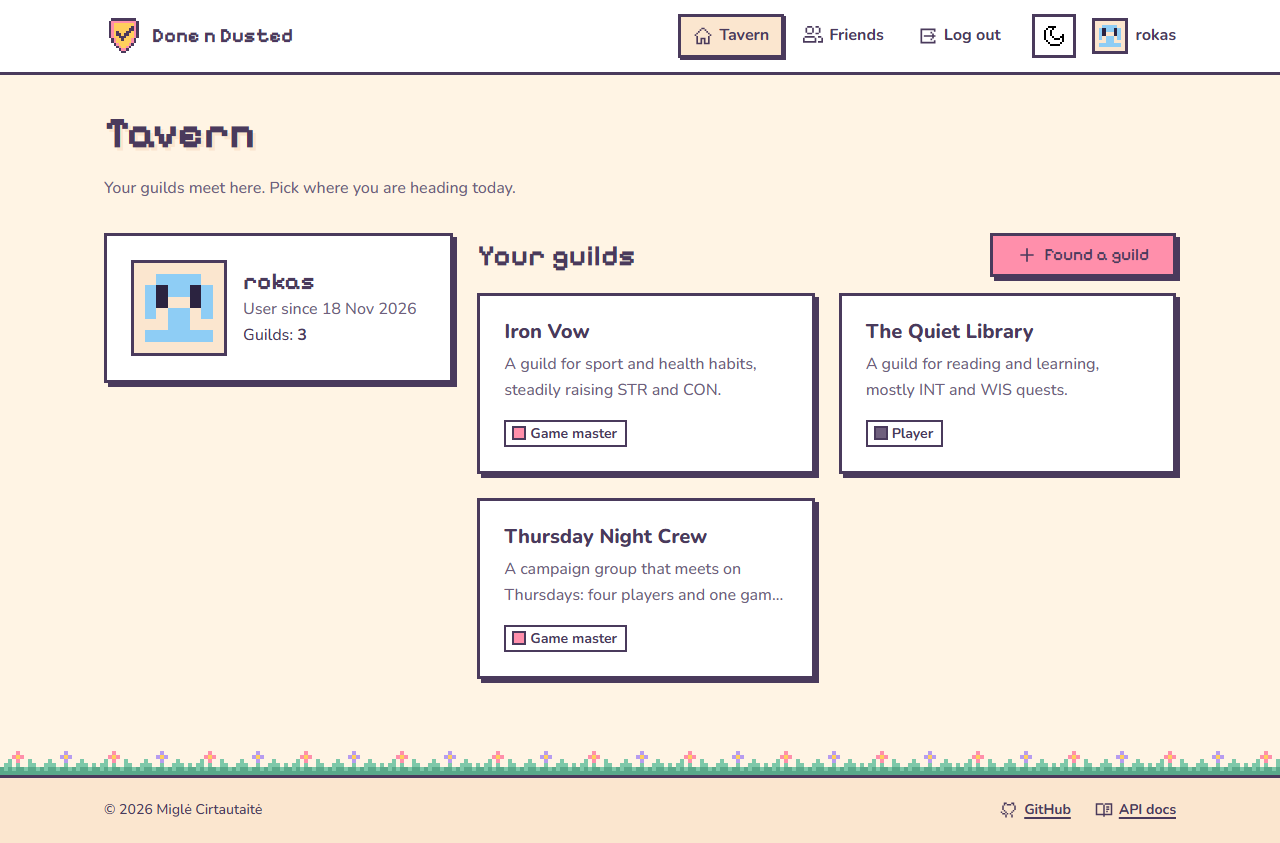
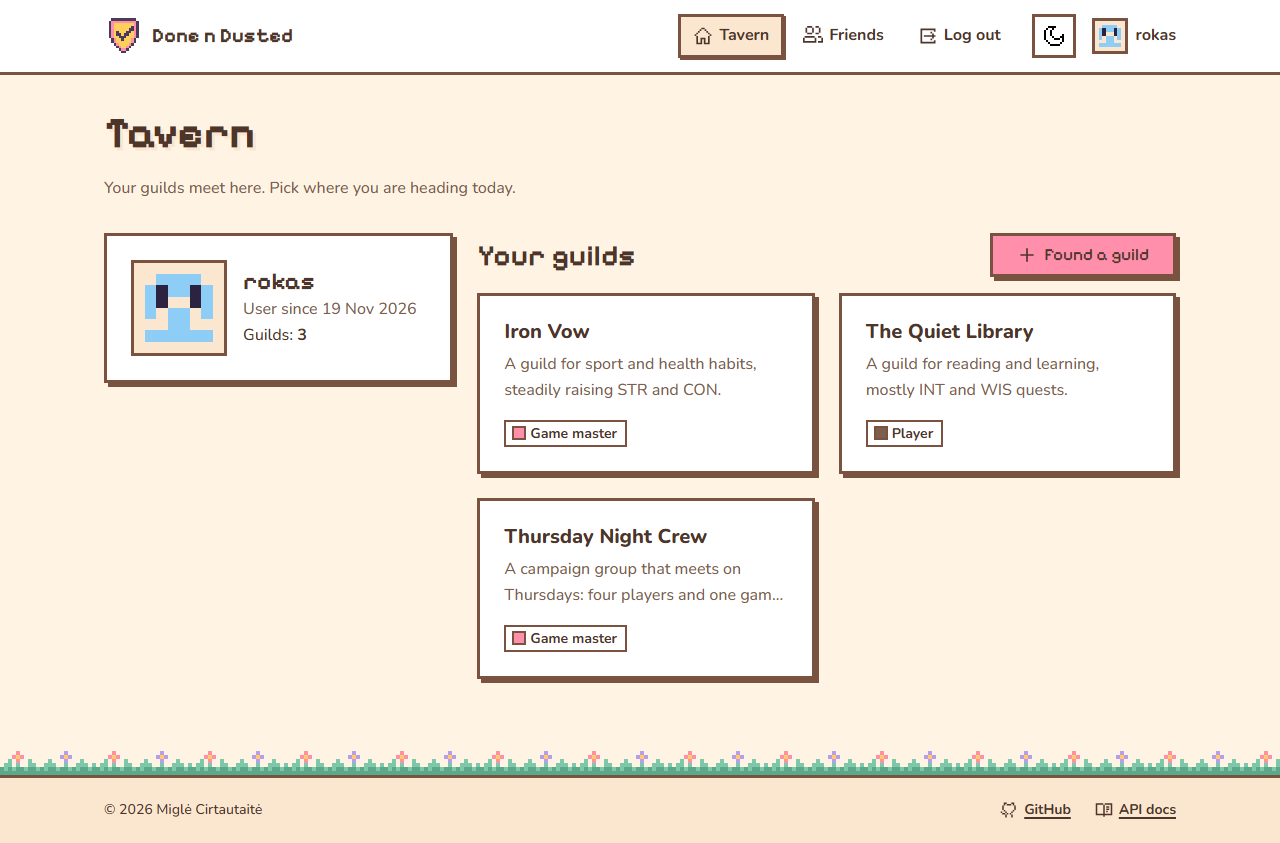
Warm up the light theme and calm the dark links

diff --git a/frontend/src/styles/tokens.css b/frontend/src/styles/tokens.css
@@ -11,21 +11,22 @@
   --bg: #fff4e4;
   --surface: #ffffff;
   --surface-2: #fbe6cf;
-  --ink: #4a3a5c; /* outlines and hard shadows, never pure black */
-  --text: #4a3a5c;
-  --text-muted: #6f5f7d;
+  --ink: #7a5240; /* outlines and hard shadows: warm cocoa, never black */
+  --text: #4e352a;
+  --text-muted: #7d5f50;
   --primary: #ff8fab; /* the one main call to action per screen */
-  --on-primary: #4a3a5c; /* text and icons on any pastel fill */
+  --on-primary: #4e352a; /* text and icons on any pastel fill */
   --link: #c2406a;
-  --link-2: #4a3a5c; /* links on --surface-2, where pink is too light */
+  --link-2: #4e352a; /* links on --surface-2, where pink is too light */
   --xp: #ffcf5c; /* experience and level only */
   --focus: #c2406a;
   --success: #7ec8a9;
+  --info: #8ecdf5; /* calm accent for informational tiles */
   --danger: #e05a6a;
   --danger-ink: #b02a42; /* error text: the pastel red is too light to read */
   --danger-btn: #b02a42;
   --on-danger: #ffffff;
-  --control: #4a3a5c; /* form control borders: 3:1 against the card in both themes */
+  --control: #7a5240; /* form control borders: 3:1 against the card in both themes */
   --overlay: rgb(255 244 228 / 90%);
 
   --stat-str: #ff8a8a;
@@ -77,11 +78,12 @@
   --text-muted: #c9b8e0;
   --primary: #ffb3c7;
   --on-primary: #2b2340;
-  --link: #ffb3c7;
-  --link-2: #ffb3c7;
+  --link: #bfc3f5;
+  --link-2: #bfc3f5;
   --xp: #ffd97a;
   --focus: #ffd97a;
   --success: #9ee6c4;
+  --info: #9cd3ff;
   --danger: #ff9aa8;
   --danger-ink: #ffb0bb;
   --danger-btn: #ff9aa8;
@@ -139,11 +141,12 @@
     --text-muted: #c9b8e0;
     --primary: #ffb3c7;
     --on-primary: #2b2340;
-    --link: #ffb3c7;
-    --link-2: #ffb3c7;
+    --link: #bfc3f5;
+    --link-2: #bfc3f5;
     --xp: #ffd97a;
     --focus: #ffd97a;
     --success: #9ee6c4;
+    --info: #9cd3ff;
     --danger: #ff9aa8;
     --danger-ink: #ffb0bb;
     --danger-btn: #ff9aa8;

diff --git a/frontend/src/pages/LandingPage.tsx b/frontend/src/pages/LandingPage.tsx
@@ -43,7 +43,7 @@ export function LandingPage() {
         <ol className="steps grid grid--3">
           <li className="window">
             <h3 className="step__title">
-              <span className="tile tile--lg" style={tile('var(--surface-2)')}>
+              <span className="tile tile--lg" style={tile('var(--info)')}>
                 <NotePlus size={28} aria-hidden="true" />
               </span>
               1. Log what you did

diff --git a/docs/LD3.md b/docs/LD3.md
@@ -103,8 +103,8 @@ užfiksuoja `data-theme` tą akimirką, kai sukuriamas `<body>`.
 
 | Žetonas | Reikšmė |
 | --- | --- |
-| Paviršiai | Diena: fonas `#fff4e4`, kortelės `#ffffff`, `surface-2 #fbe6cf`. Naktis: `#2b2340`, `#3d3159`, `#4a3c6b`. Tekstas ir rašalas `#4a3a5c` (diena) / `#fdf3e7` (naktis); juodos (#000) nėra |
-| Akcentai | `--primary` (rožinė) — tik vienam pagrindiniam veiksmui ekrane; `--xp` (geltona) — tik XP ir lygiui; `--success` / `--danger` — patvirtinimas ir trynimas |
+| Paviršiai | Diena: fonas `#fff4e4`, kortelės `#ffffff`, `surface-2 #fbe6cf`. Naktis: `#2b2340`, `#3d3159`, `#4a3c6b`. Dieną tekstas šokoladinis `#4e352a`, rėmeliai ir šešėliai kakavos `#7a5240`; naktį tekstas `#fdf3e7`; juodos (#000) nėra |
+| Akcentai | `--primary` (rožinė) — tik vienam pagrindiniam veiksmui ekrane; `--xp` (geltona) — tik XP ir lygiui; `--success` / `--danger` — patvirtinimas ir trynimas; `--info` (dangaus mėlyna) — informacinės plytelės; naktį nuorodos ramios levandinės `#bfc3f5`, kad nekonkuruotų su rožiniu veiksmo mygtuku |
 | Savybių spalvos | Visame saite tos pačios: STR, DEX, CON, INT, WIS, CHA turi savo `--stat-*` žetoną abiem temoms (juostos, plytelės, filtrai, užduočių kortelių juosta) |
 | Pastelės ir tekstas | Pastelinė spalva niekada nėra teksto spalva: ant jos — tamsus rašalas (ikonų plytelės, XP ženklelis), o ženkleliuose spalva — tik kvadratėlis šalia teksto |
 | Šriftai | Pixelify Sans (logotipas, H1, H2, mygtukai) ir Nunito (visa kita, skaičiai — `tabular-nums`); telefone tekstas 17 px, eilutės aukštis 1,6, H1 ~32 px su `text-wrap: balance` |
@@ -126,32 +126,32 @@ vyksta CI). Skriptas taip pat patikrina, kad „sistema tamsi“ blokas sutampa 
 
 | Pair | Used for | Light | Dark | Min |
 | --- | --- | --- | --- | --- |
-| `--text` on `--bg` | body text on the page | 9.42 ✓ | 13.51 ✓ | 4.5 |
-| `--text` on `--surface` | text in cards, forms, modals | 10.24 ✓ | 10.75 ✓ | 4.5 |
-| `--text` on `--surface-2` | footer, quotes, counters, tables | 8.45 ✓ | 8.91 ✓ | 4.5 |
-| `--text-muted` on `--bg` | hints and meta on the page | 5.35 ✓ | 8.06 ✓ | 4.5 |
-| `--text-muted` on `--surface` | hints and meta in cards | 5.82 ✓ | 6.41 ✓ | 4.5 |
-| `--text-muted` on `--surface-2` | meta in the footer and counters | 4.80 ✓ | 5.31 ✓ | 4.5 |
-| `--link` on `--bg` | links on the page | 4.56 ✓ | 8.84 ✓ | 4.5 |
-| `--link` on `--surface` | links in cards | 4.96 ✓ | 7.03 ✓ | 4.5 |
-| `--link-2` on `--surface-2` | footer links | 8.45 ✓ | 5.83 ✓ | 4.5 |
+| `--text` on `--bg` | body text on the page | 10.35 ✓ | 13.51 ✓ | 4.5 |
+| `--text` on `--surface` | text in cards, forms, modals | 11.25 ✓ | 10.75 ✓ | 4.5 |
+| `--text` on `--surface-2` | footer, quotes, counters, tables | 9.28 ✓ | 8.91 ✓ | 4.5 |
+| `--text-muted` on `--bg` | hints and meta on the page | 5.33 ✓ | 8.06 ✓ | 4.5 |
+| `--text-muted` on `--surface` | hints and meta in cards | 5.79 ✓ | 6.41 ✓ | 4.5 |
+| `--text-muted` on `--surface-2` | meta in the footer and counters | 4.78 ✓ | 5.31 ✓ | 4.5 |
+| `--link` on `--bg` | links on the page | 4.56 ✓ | 8.71 ✓ | 4.5 |
+| `--link` on `--surface` | links in cards | 4.96 ✓ | 6.92 ✓ | 4.5 |
+| `--link-2` on `--surface-2` | footer links | 9.28 ✓ | 5.74 ✓ | 4.5 |
 | `--danger-ink` on `--surface` | form errors | 6.45 ✓ | 6.83 ✓ | 4.5 |
 | `--danger-ink` on `--bg` | errors on the page, 404 | 5.93 ✓ | 8.59 ✓ | 4.5 |
-| `--on-primary` on `--primary` | main CTA button | 4.76 ✓ | 8.84 ✓ | 4.5 |
-| `--on-primary` on `--xp` | XP chips, level badge | 6.99 ✓ | 10.91 ✓ | 4.5 |
-| `--on-primary` on `--success` | Approve / Accept buttons | 5.23 ✓ | 10.28 ✓ | 4.5 |
+| `--on-primary` on `--primary` | main CTA button | 5.23 ✓ | 8.84 ✓ | 4.5 |
+| `--on-primary` on `--xp` | XP chips, level badge | 7.68 ✓ | 10.91 ✓ | 4.5 |
+| `--on-primary` on `--success` | Approve / Accept buttons | 5.74 ✓ | 10.28 ✓ | 4.5 |
 | `--on-danger` on `--danger-btn` | Delete / Reject buttons | 6.45 ✓ | 7.37 ✓ | 4.5 |
-| `--text` on `--surface-2` | secondary buttons | 8.45 ✓ | 8.91 ✓ | 4.5 |
-| `--on-primary` on `--stat-str` | STR icon tile | 4.51 ✓ | 7.37 ✓ | 3 |
-| `--on-primary` on `--stat-dex` | DEX icon tile | 5.23 ✓ | 10.28 ✓ | 3 |
-| `--on-primary` on `--stat-con` | CON icon tile | 5.73 ✓ | 9.22 ✓ | 3 |
-| `--on-primary` on `--stat-int` | INT icon tile | 5.95 ✓ | 9.30 ✓ | 3 |
-| `--on-primary` on `--stat-wis` | WIS icon tile | 4.40 ✓ | 7.08 ✓ | 3 |
-| `--on-primary` on `--stat-cha` | CHA icon tile | 4.76 ✓ | 8.84 ✓ | 3 |
+| `--text` on `--surface-2` | secondary buttons | 9.28 ✓ | 8.91 ✓ | 4.5 |
+| `--on-primary` on `--stat-str` | STR icon tile | 4.96 ✓ | 7.37 ✓ | 3 |
+| `--on-primary` on `--stat-dex` | DEX icon tile | 5.74 ✓ | 10.28 ✓ | 3 |
+| `--on-primary` on `--stat-con` | CON icon tile | 6.29 ✓ | 9.22 ✓ | 3 |
+| `--on-primary` on `--stat-int` | INT icon tile | 6.54 ✓ | 9.30 ✓ | 3 |
+| `--on-primary` on `--stat-wis` | WIS icon tile | 4.84 ✓ | 7.08 ✓ | 3 |
+| `--on-primary` on `--stat-cha` | CHA icon tile | 5.23 ✓ | 8.84 ✓ | 3 |
 | `--focus` on `--bg` | focus outline on the page (non-text) | 4.56 ✓ | 10.91 ✓ | 3 |
 | `--focus` on `--surface` | focus outline in cards (non-text) | 4.96 ✓ | 8.67 ✓ | 3 |
-| `--control` on `--surface` | form control borders in cards (non-text) | 10.24 ✓ | 6.41 ✓ | 3 |
-| `--control` on `--bg` | form control borders on the page (non-text) | 9.42 ✓ | 8.06 ✓ | 3 |
+| `--control` on `--surface` | form control borders in cards (non-text) | 6.76 ✓ | 6.41 ✓ | 3 |
+| `--control` on `--bg` | form control borders on the page (non-text) | 6.21 ✓ | 8.06 ✓ | 3 |
 
 all pairs pass
 
